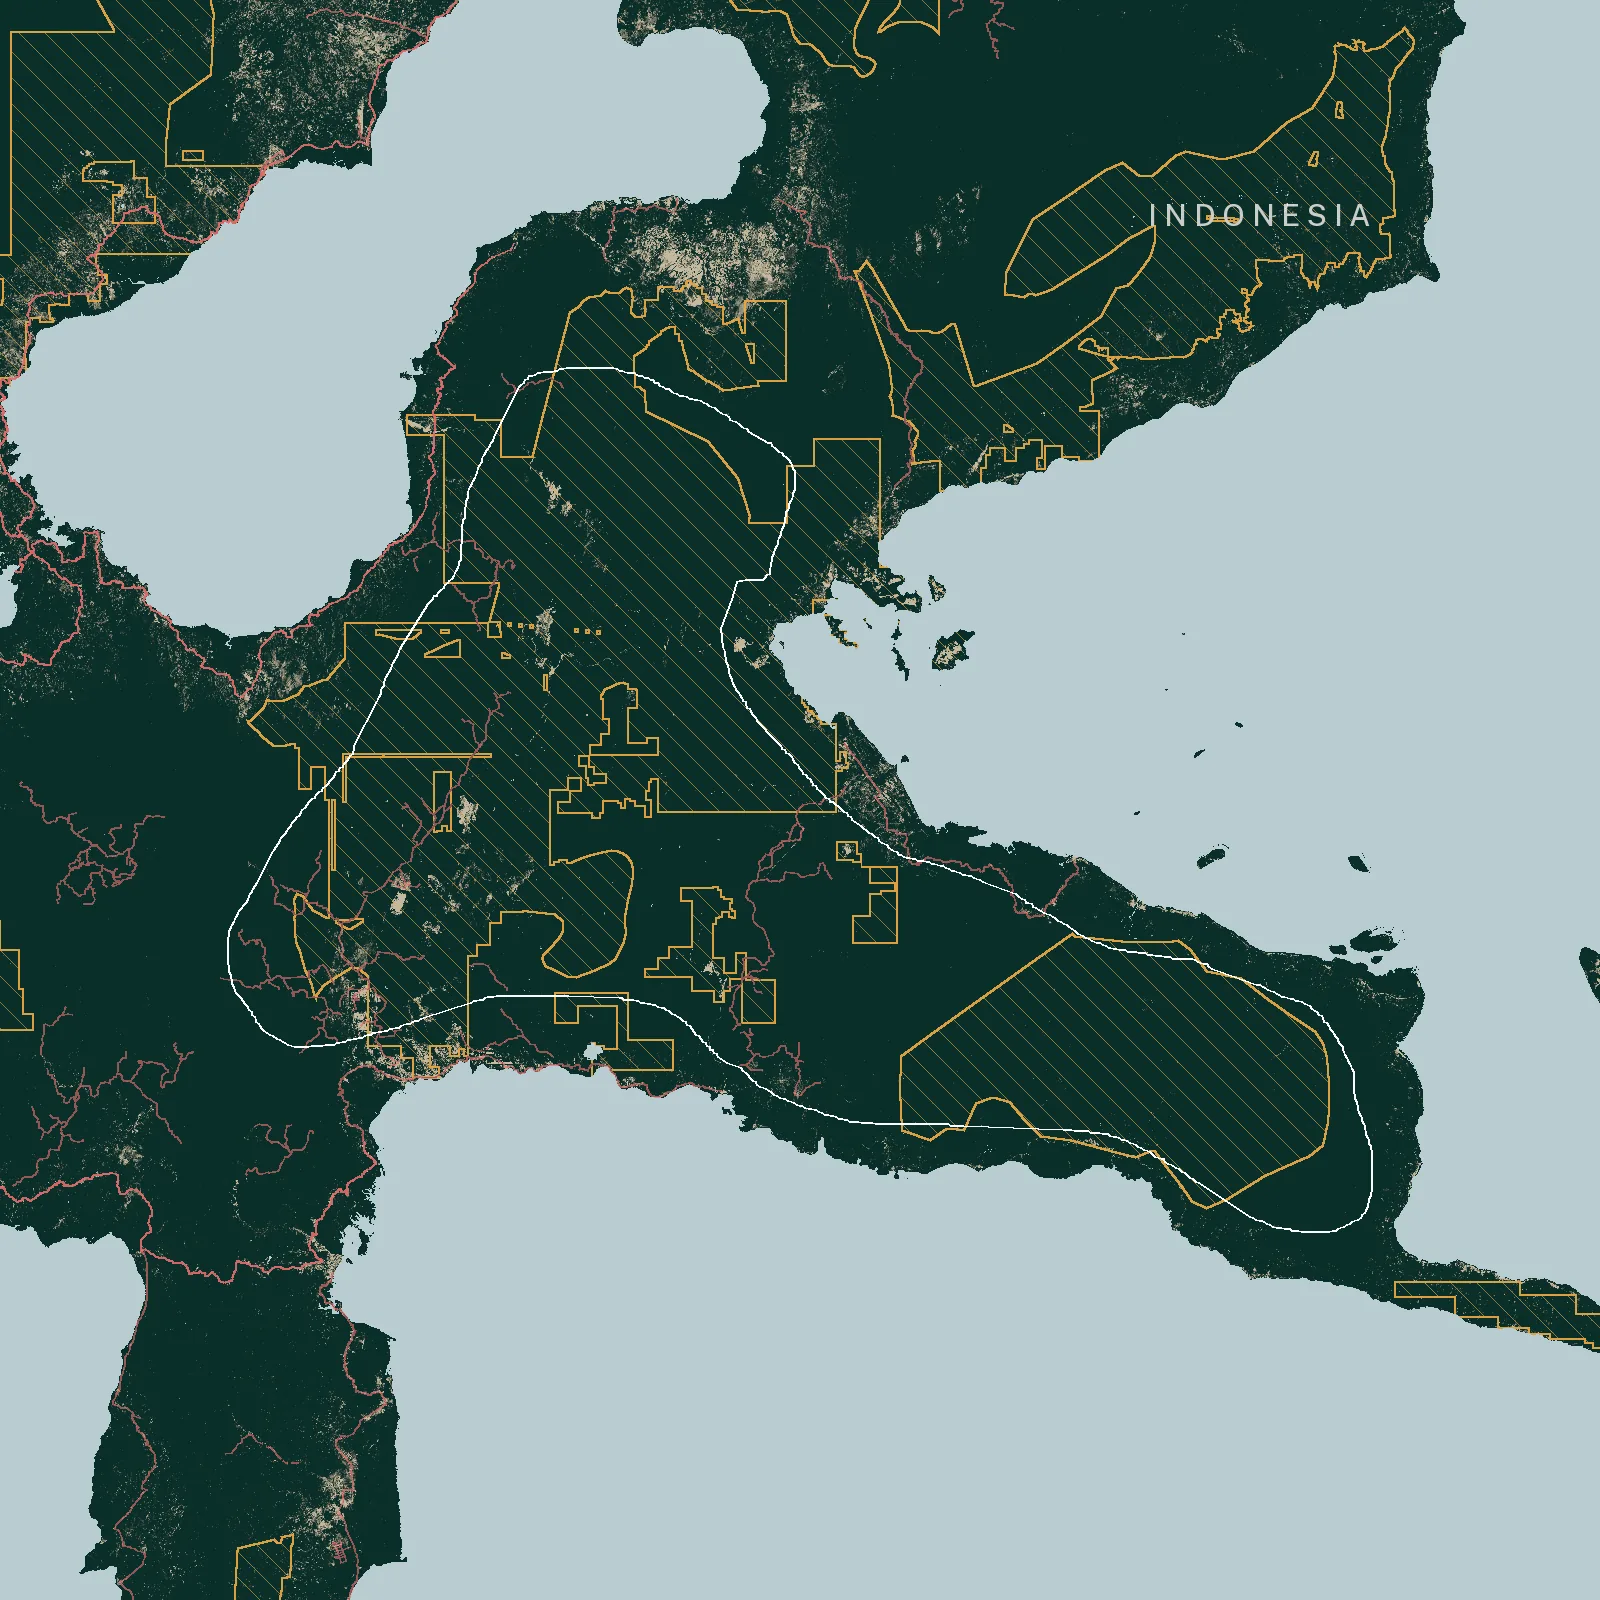
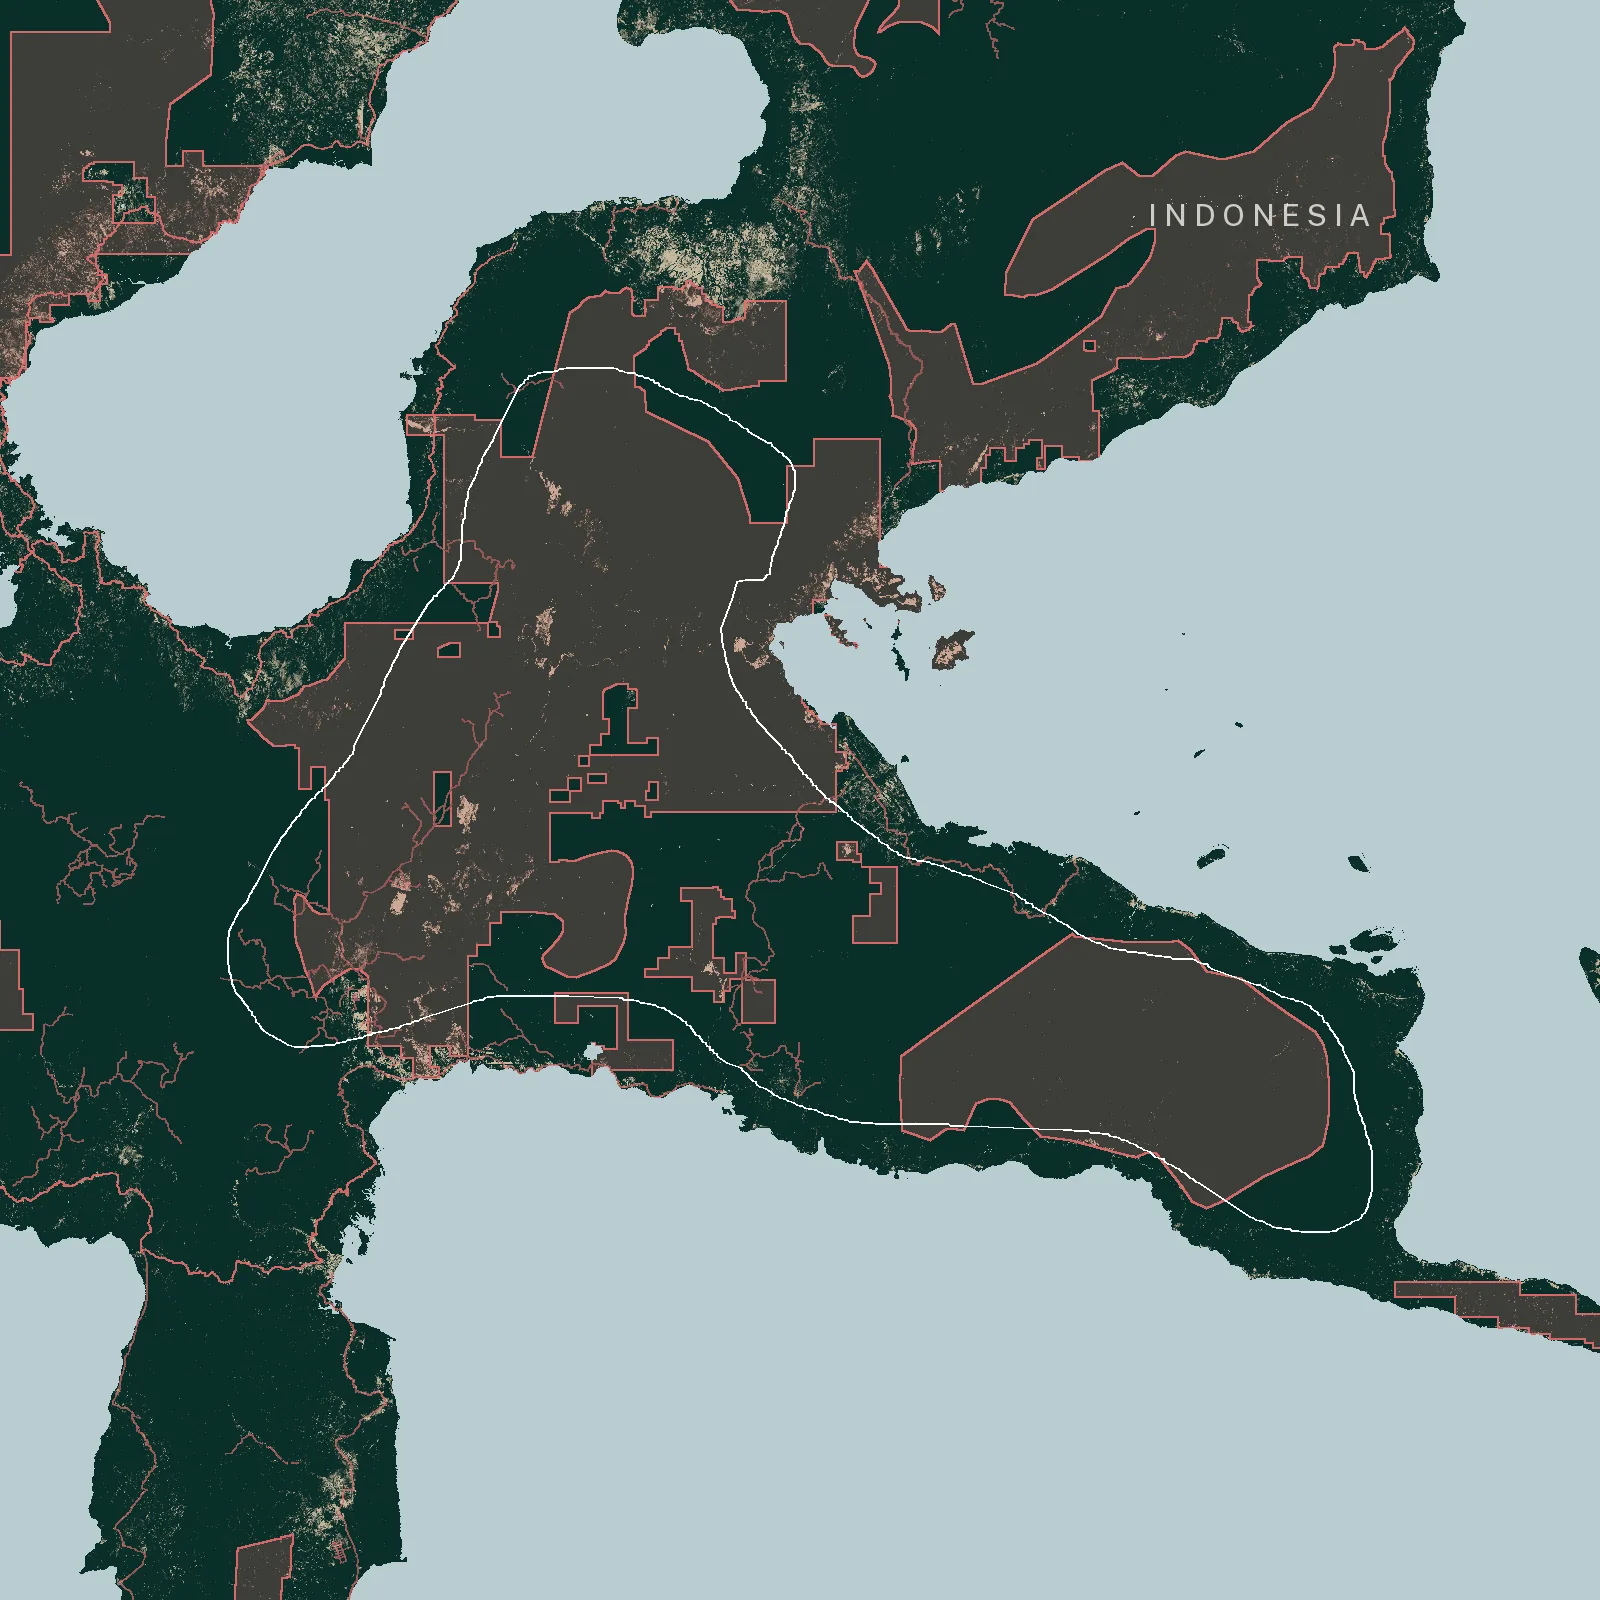
Wash the concessions instead of hatching them
Chosen from the two drawn: the hatch leaves more of the imagery
visible, the wash reads as one continuous claim at a glance, which is
what the chapter is about. The alpha is low enough that the cleared
ground still shows through as a lighter patch, which was the worry.

The wash and the roads now share a hue, so it is the shape of the key
that tells them apart: a filled box with the map's own edge against a
line. The key was coming out half width, the long label squeezing it as
a flex child; it is a fixed mark, not a column.

diff --git a/src/config.js b/src/config.js
@@ -700,10 +700,10 @@ export default {
       // The concession key leads: it is the layer the chapter is about, and
       // it is an area, so it reads before the lines drawn on top of it.
       legend: [
-        { label: 'Mining and forestry concessions', color: '#e8a643', type: 'area' },
+        { label: 'Mining and forestry concessions', color: '#e66d6d', type: 'area' },
         { label: 'Roads', color: '#e66d6d' },
       ],
-      caption: 'Forest remaining in 2025, with mining, logging and wood fiber concessions hatched and the road network in pink. The outline is Survival International\u2019s approximation of the lands used by O\u2019 Hongana Manyawa. For security reasons, map is deliberately rough.',
+      caption: 'Forest remaining in 2025, with mining, logging and wood fiber concessions shaded and the road network in pink. The outline is Survival International\u2019s approximation of the lands used by O\u2019 Hongana Manyawa. For security reasons, map is deliberately rough.',
       title: 'The O\u2019 Hongana Manyawa in Halmahera',
       description: "<p>Lands used by uncontacted O\u2019 Hongana Manyawa people in Indonesia\u2019s Halmahera Island overlap with the Aketajawe-Lolobata National Park. However, voluntarily isolated members of the tribe use much more land, and mapping efforts by various groups of their territory are underway.</p><p>According to an approximate map by human rights organization Survival International, a wave of mining concessions, many for nickel, impact forests uncontacted O\u2019 Hongana Manyawa people depend on for food and survival.</p><p>The Jakarta declaration, which calls on governments to protect the lands and rights of uncontacted peoples worldwide, was drafted in Indonesia in a bid to strengthen the global alliance for the protection of uncontacted peoples and the inclusion of tribes in Indonesia.</p><p>For the safety of the isolated members of the group, Mongabay will not publish the most up-to-date map of lands the O\u2019 Hongana Manyawa people use.</p><p>\u201CThis map is very helpful in showing the existence of the O\u2019 Hongana Manyawa Indigenous Community \u2026 but does not yet cover the entire O\u2019 Hongana Manyawa Indigenous territory. The work to document the existence of O\u2019 Hongana Manyawa and its Indigenous territory is not yet complete, and it will continue,\u201D said Yoga Kipli, directorate of community support and former head of participatory mapping for the Indigenous Peoples\u2019 Alliance of the Archipelago (AMAN).</p>",
     },

diff --git a/src/components/stages/WatchArea.jsx b/src/components/stages/WatchArea.jsx
@@ -69,16 +69,15 @@ const WatchArea = ({
               <ul className="watch-legend">
                 {keys.map((item) => (
                   <li key={item.label} className="watch-legend__item">
-                    {/* A line key for a line and a hatched box for a hatched
-                        area: a key that is not drawn the way the thing it
-                        stands for is drawn makes the reader look twice. */}
+                    {/* A line key for a line, and for an area the same wash
+                        and edge the map draws: a key that is not drawn the way
+                        the thing it stands for is drawn makes the reader look
+                        twice. The two share a hue here, so it is the shape of
+                        the key that separates them. */}
                     <span
                       className={`watch-legend__swatch watch-legend__swatch--${item.type || 'line'}`}
                       style={item.type === 'area'
-                        ? {
-                          backgroundImage: `repeating-linear-gradient(45deg, ${item.color} 0 1.5px, transparent 1.5px 5px)`,
-                          borderColor: item.color,
-                        }
+                        ? { background: `${item.color}3b`, borderColor: item.color }
                         : { background: item.color }}
                     />
                     {t(item.label)}

diff --git a/src/components/stages/WatchArea.css b/src/components/stages/WatchArea.css
@@ -131,6 +131,9 @@
 
 .watch-legend__swatch {
   display: block;
+  /* A flex child shrinks by default, and the longer of the two labels was
+     squeezing its key to half width. The key is a fixed mark, not a column. */
+  flex: none;
   width: 20px;                                     /* adjust swatch length */
   height: 2px;
   border-radius: 1px;
@@ -138,10 +141,11 @@
               0 1px 3px rgba(24, 24, 24, 0.55);
 }
 
-/* The area key: the same hatch the map draws, in a box with its own edge. */
+/* The area key: the map's own wash, in a box with the map's own edge. */
 .watch-legend__swatch--area {
   width: 18px;                                   /* adjust area key size */
   height: 11px;
+  box-sizing: border-box;
   border: 1px solid;
   border-radius: 1px;
 }
